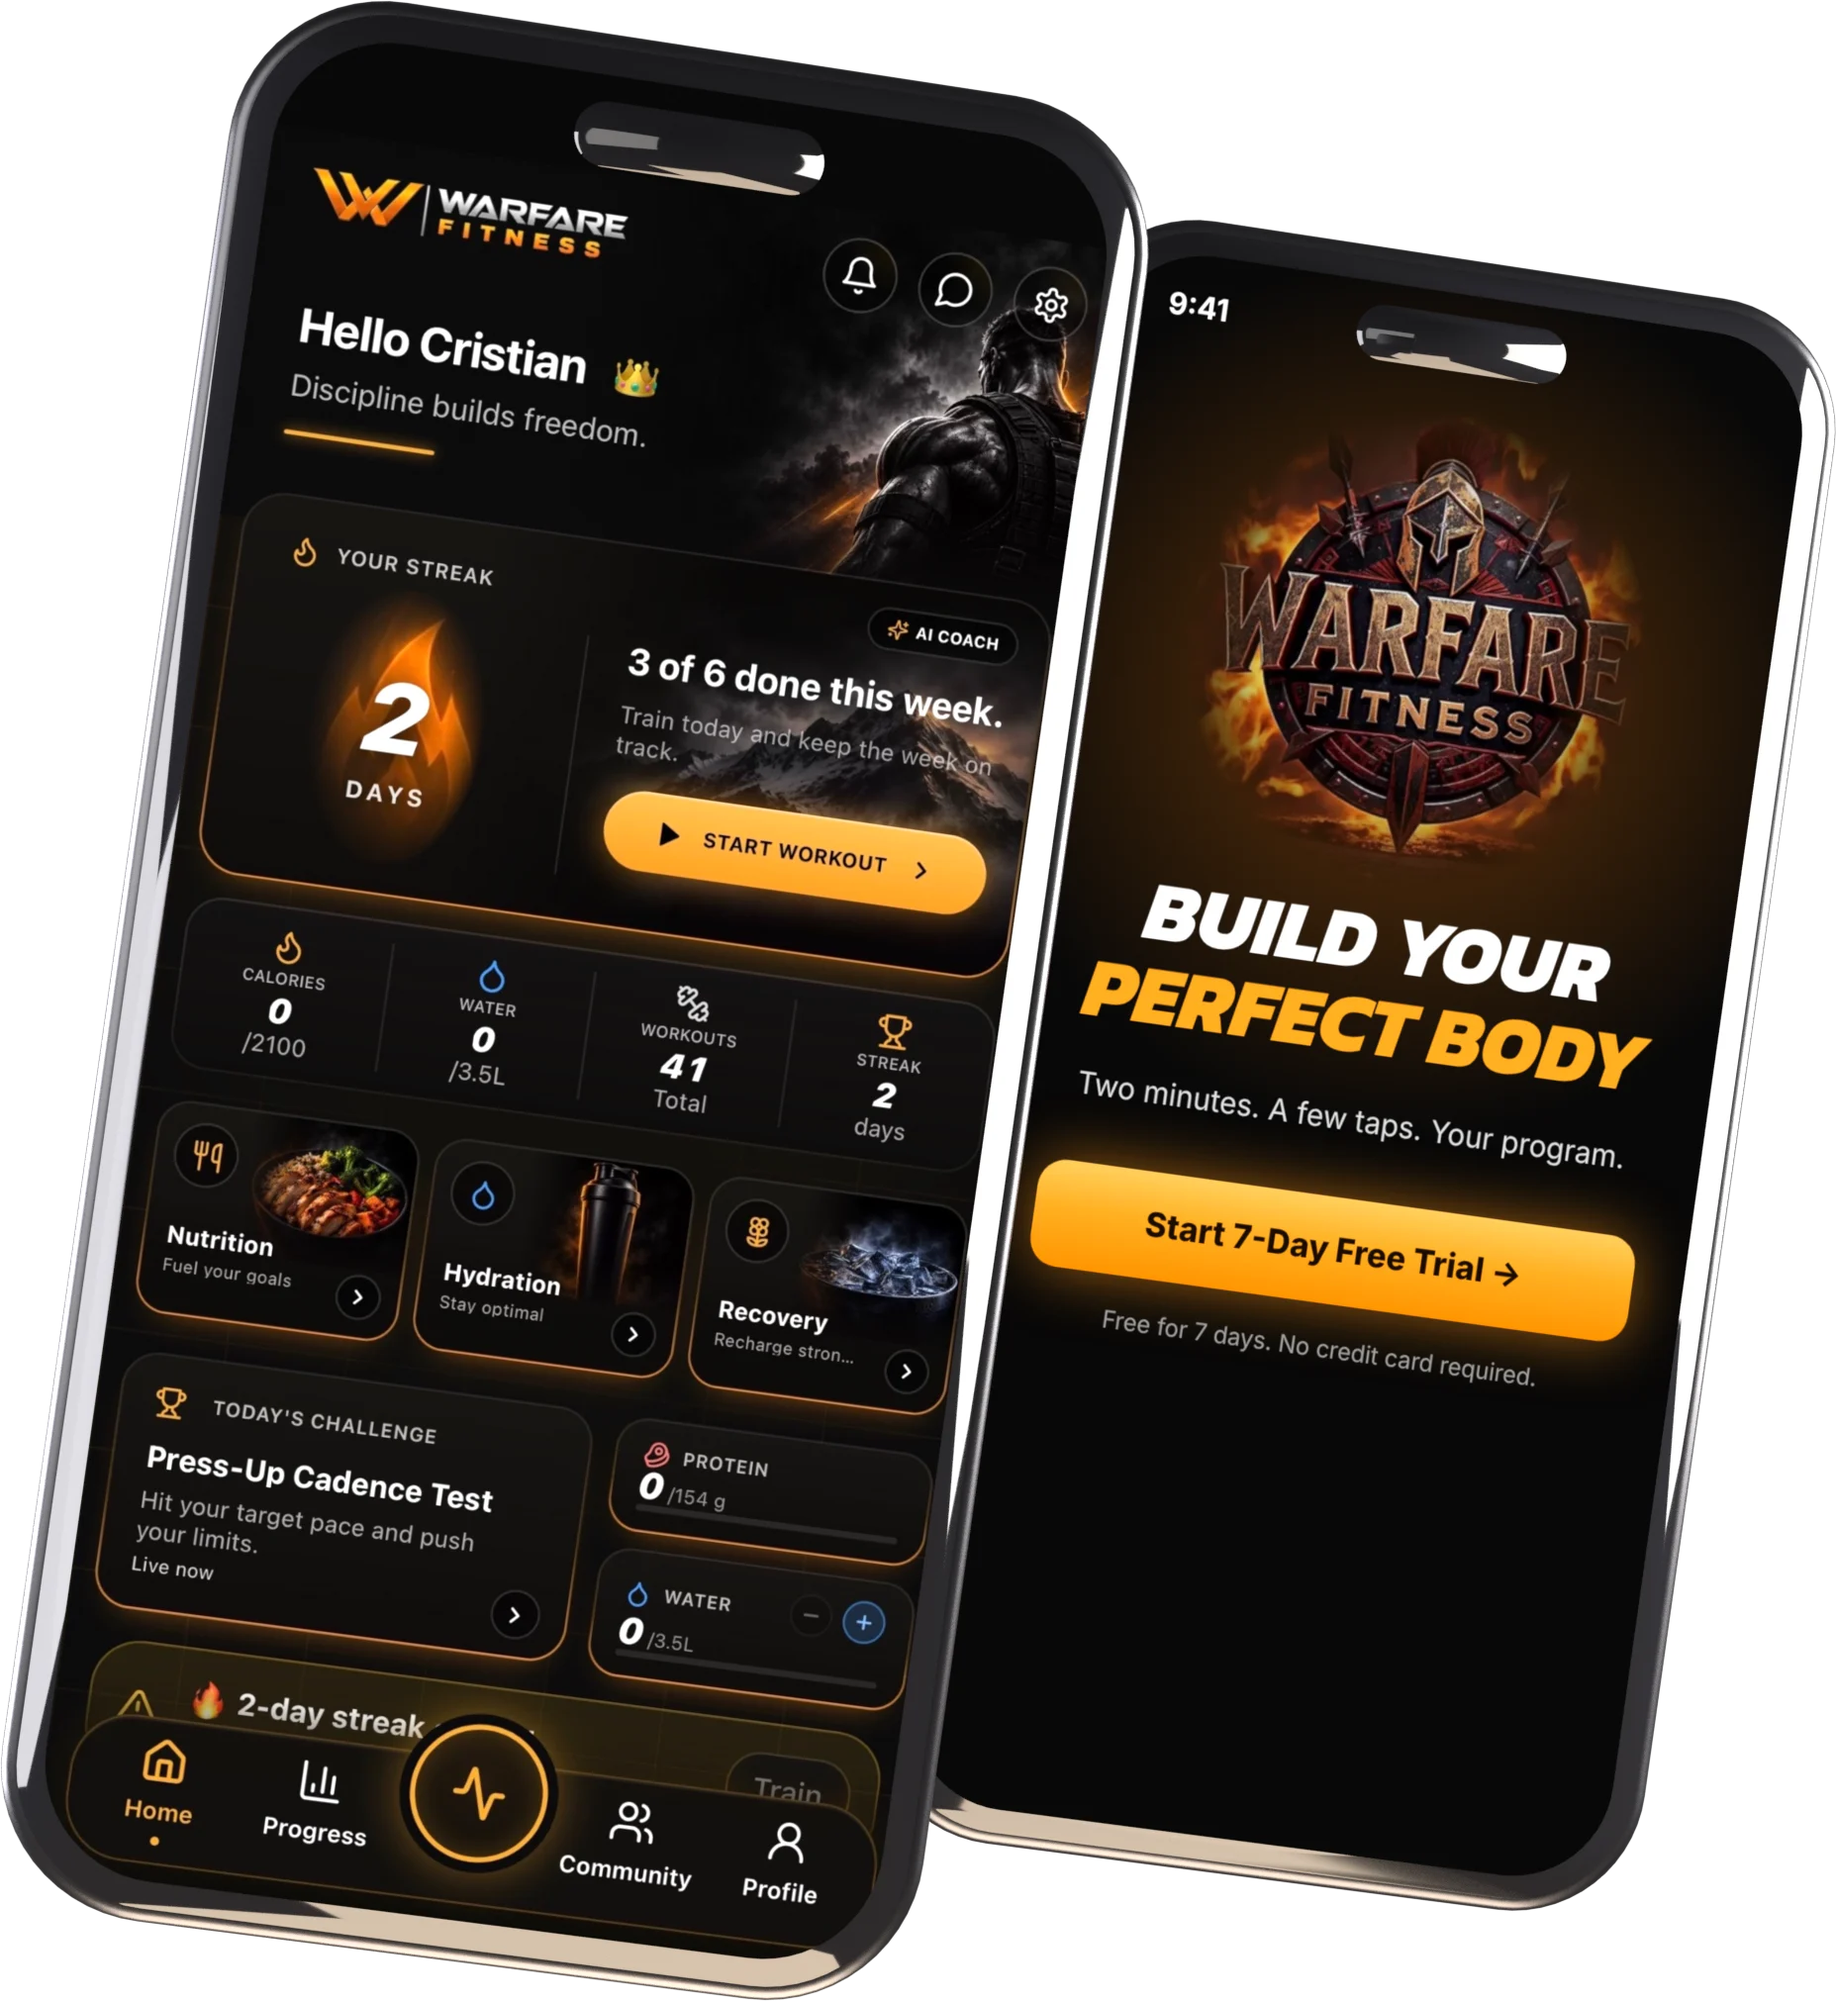
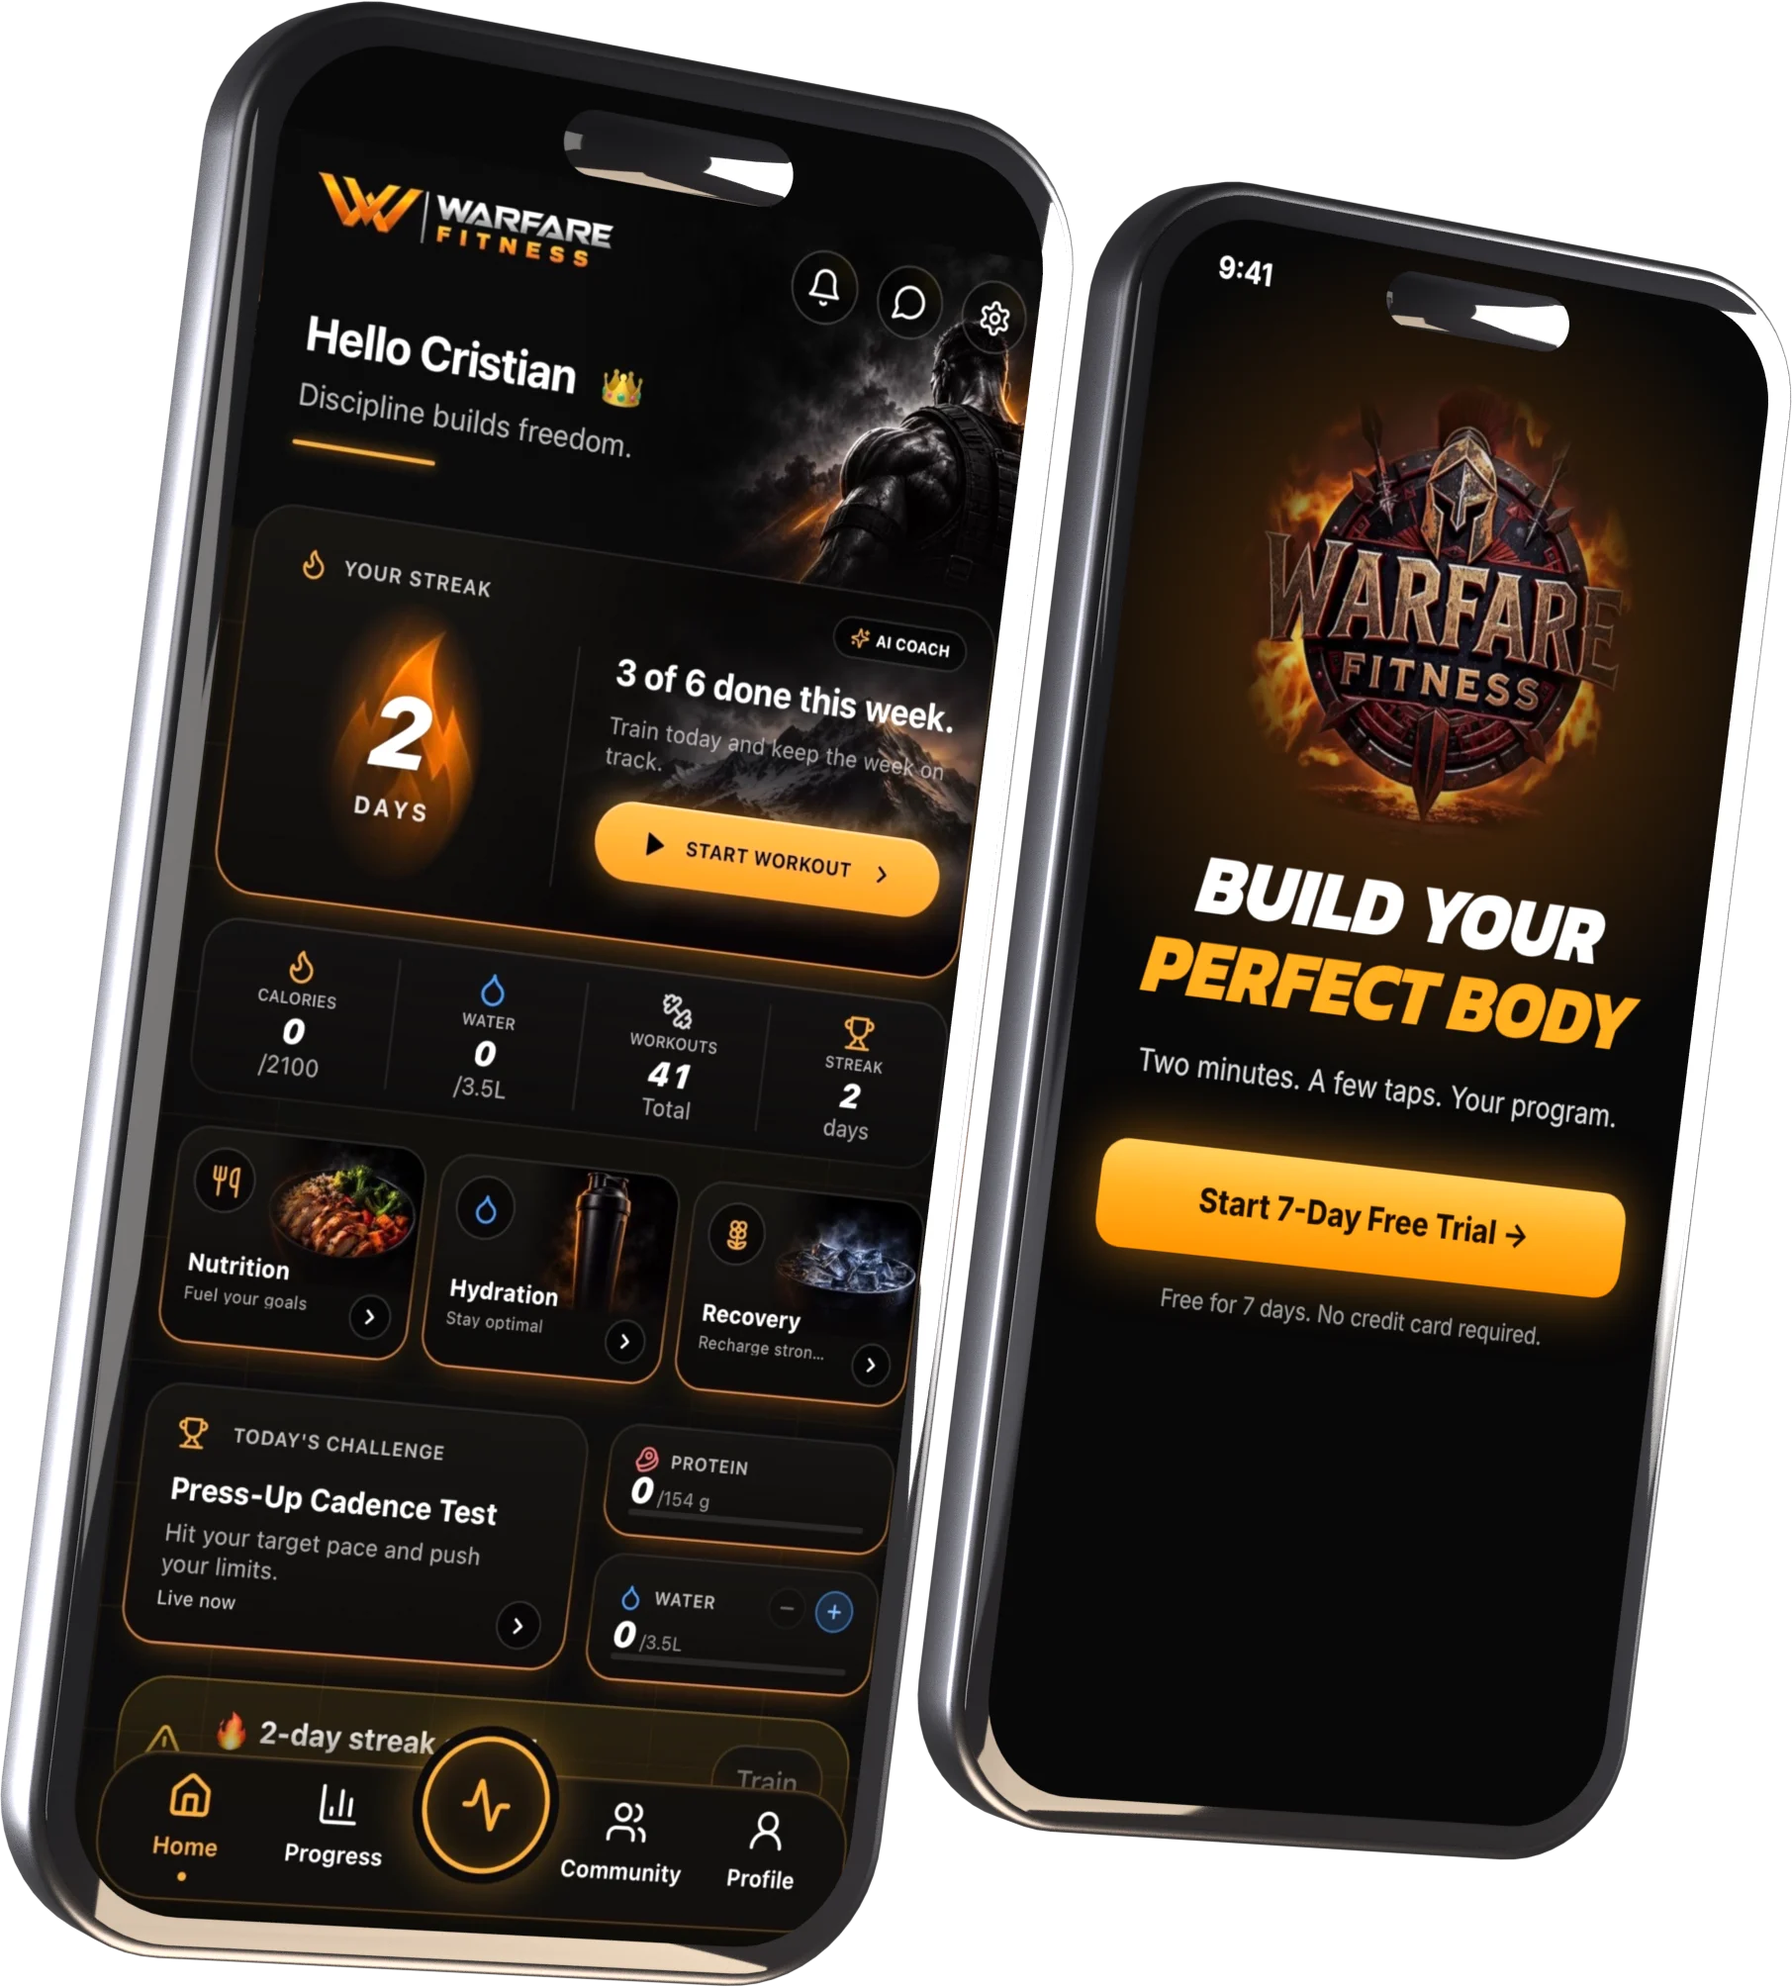
Hero phones turned to face the headline, as in the reference
Claude-Session: https://claude.ai/code/session_014Xmm6a1V85rTLyXYfDJ2dw

diff --git a/src/components/landing/Warfare.tsx b/src/components/landing/Warfare.tsx
@@ -51,7 +51,7 @@ function GoalGrid() {
 /** The two phones, rendered in 3D (Blender) with the real dashboard on the
  *  front one. The source scene is scripts/landing-phones/phones.py. */
 function HeroPhones() {
-  return <img src="/landing/phones.webp" alt="" aria-hidden className="wx-phones3d" width={1855} height={2022} fetchPriority="high" />;
+  return <img src="/landing/phones.webp" alt="" aria-hidden className="wx-phones3d" width={1811} height={2008} fetchPriority="high" />;
 }
 
 export function WxHero({ ctaLabel, ctaNote, disclosure, priceLine, onDemo }: {

diff --git a/scripts/landing-phones/phones.py b/scripts/landing-phones/phones.py
@@ -59,8 +59,8 @@ def phone(img, loc, rot):
     body.location = loc; body.rotation_euler = [math.radians(a) for a in rot]
     return body
 
-phone('screen_crest.png', (0.46, -0.06, -0.75), (0, 5, -8))
-phone('screen_home_p.jpg', (-0.22, 0.0, 0.2), (0, 5, -8))
+phone('screen_crest.png', (0.52, -0.02, -0.75), (0, 26, -7))
+phone('screen_home_p.jpg', (-0.20, 0.0, 0.2), (0, 26, -7))
 
 cam = bpy.data.objects.new('cam', bpy.data.cameras.new('cam')); bpy.context.collection.objects.link(cam)
 cam.location = (0.08, 0.0, 5.45); cam.data.lens = 85; sc.camera = cam
